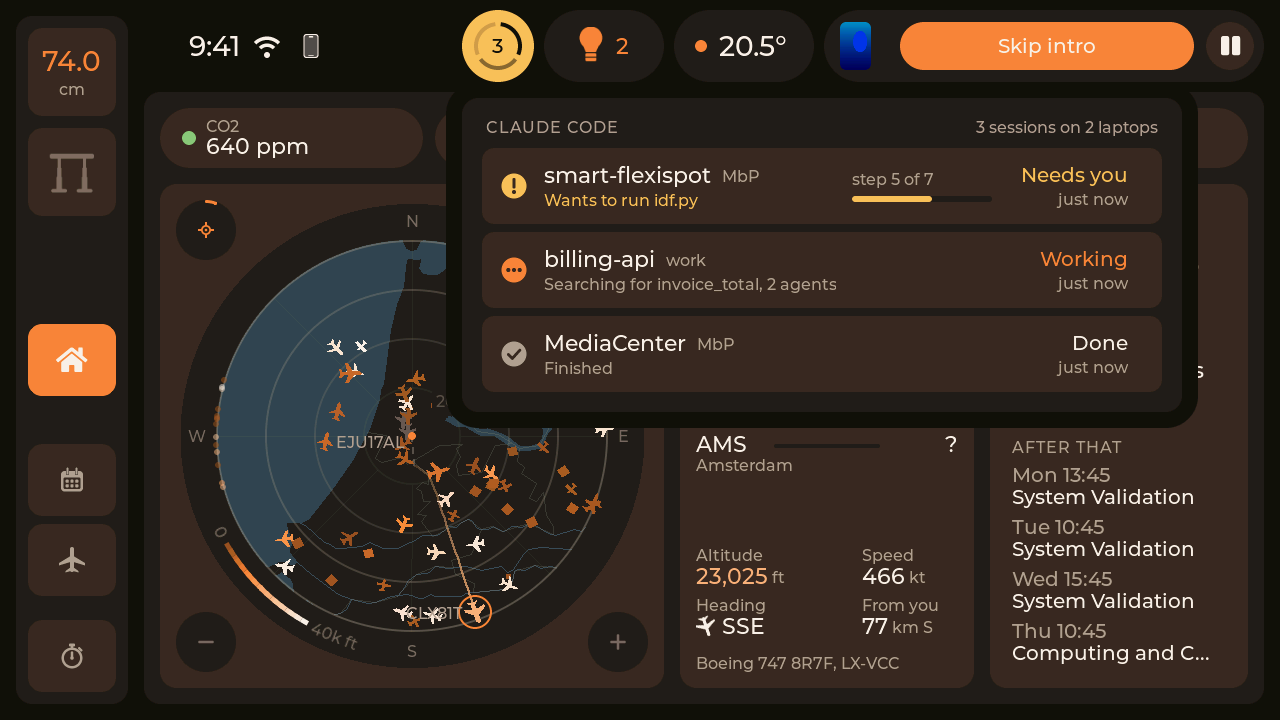
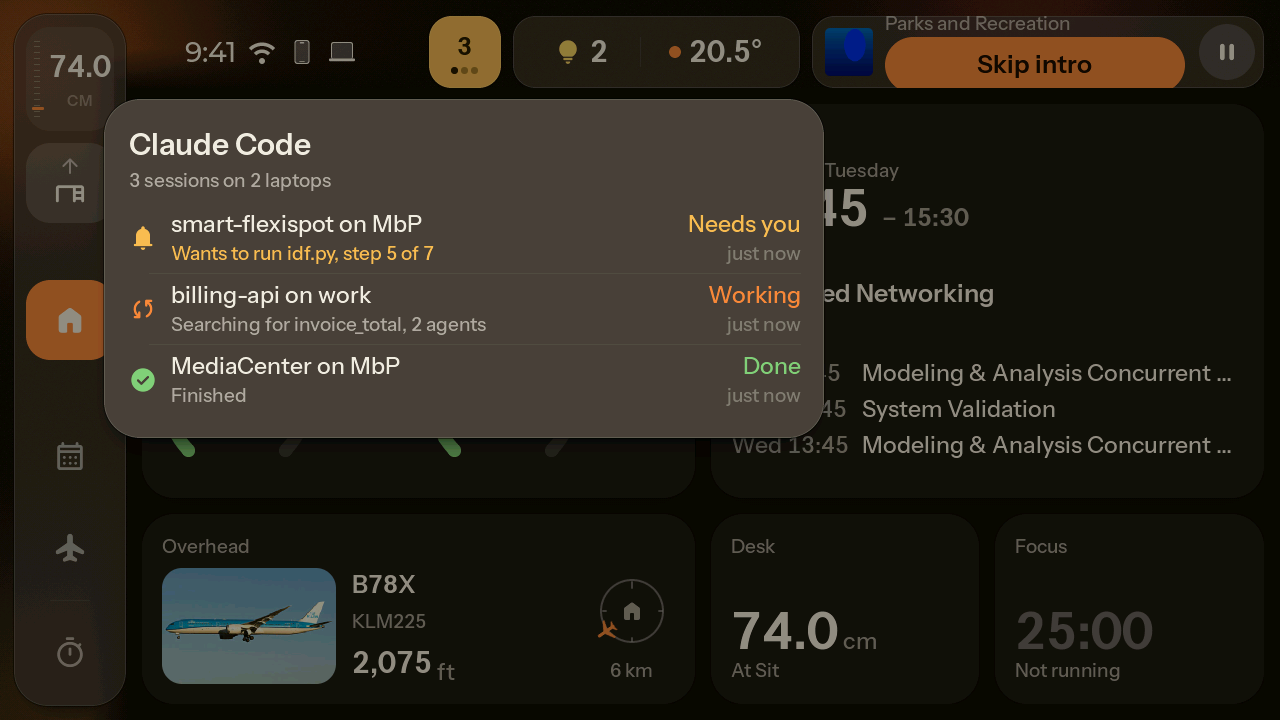
The README's pictures of the new screen, and its words to match
Every screenshot was still of the screen before the redesign, taken the day
the new one first ran. Taken again with sim/shots.sh: Diagnostics is tapped
where Setup's sidebar now has it, rather than on the notification volume,
and both radar pictures come from one run, so Home and the radar page show
the same airliner at 36,000 ft; --pick-above now pins Home's Overhead to it
too, which only the simulator does. The README has the media order as it
is, the speaker, then Jellyfin, then the laptop, playing before paused;
Desk Link on Linux as well as the Mac; and Setup's sidebar.

diff --git a/components/ui/front/kit_front_home.cpp b/components/ui/front/kit_front_home.cpp
@@ -462,12 +462,18 @@ std::int32_t s_track_x = 0, s_track_w = 0, s_track_y = 0;
 std::int32_t s_rose_d = 0, s_rose_r = 0;
 constexpr std::int32_t ROSE_PLANE = 22;  // the plane on the rose, smaller than the route's so the ring has room
 
-// The closest aircraft in the air.
+char s_pinned[radar::kHexLen] = "";  // overhead_pin()'s
+
+// The closest aircraft in the air, or the one pinned while it is.
 const radar::Aircraft *pick_overhead()
 {
     const radar::Aircraft *closest = nullptr;
     for (int i = 0; i < s_sky.count; ++i) {
         const radar::Aircraft &a = s_sky.list[i];
+        if (s_pinned[0] != '\0' && std::strcmp(a.hex, s_pinned) == 0 && !a.on_ground) {
+            closest = &a;
+            break;
+        }
         if (a.on_ground || a.distance_nm * KM_PER_NM > OVERHEAD_KM) {
             continue;
         }
@@ -909,3 +915,11 @@ void build_home(lv_obj_t *page)
 }
 
 }  // namespace ui::kitfront
+
+namespace ui {
+void overhead_pin(const char *hex)
+{
+    std::snprintf(kitfront::s_pinned, sizeof kitfront::s_pinned, "%s", hex != nullptr ? hex : "");
+    kitfront::paint_overhead();
+}
+}  // namespace ui

diff --git a/components/ui/front/radar_page.h b/components/ui/front/radar_page.h
@@ -32,4 +32,9 @@ void radar_open_on(const char *hex);
  *  For the simulator's screenshots. LVGL lock held. */
 bool radar_choose(const char *hex);
 
+/** Home's Overhead shows that aircraft while it is in the sky, rather than the
+ *  closest, so a screenshot of Home and one of the radar have the same. For
+ *  the simulator's screenshots. LVGL lock held. */
+void overhead_pin(const char *hex);
+
 }  // namespace ui

diff --git a/sim/main.cpp b/sim/main.cpp
@@ -453,7 +453,11 @@ bool pick_plane(int above_ft)
             best = &plane;
         }
     }
-    return best != nullptr && ui::radar_choose(best->hex);
+    if (best == nullptr) {
+        return false;
+    }
+    ui::overhead_pin(best->hex);
+    return ui::radar_choose(best->hex);
 }
 }  // namespace
 

diff --git a/README.md b/README.md
@@ -40,7 +40,7 @@ I am not affiliated with, or endorsed by, any of the products or services named 
 - What plays on Jellyfin, with a cinema view that has the lights and the desk within reach.
 - A live radar of the planes overhead: who is flying, where to, their photo and their trail.
 - The next lecture, a countdown, and when to leave to get there on time.
-- Desk Link, a menu bar app that connects my Mac to the panel: what plays there shows on the panel and is steered from it, and Claude Code's sessions come through it.
+- Desk Link, a small app that connects my laptops to the panel, on macOS and on Linux: what plays there shows on the panel and is steered from it, and Claude Code's sessions come through it.
 - A pill in the bar while a Claude Code session on a laptop works, amber when one waits on you.
 - A focus timer, a presence sensor from your phone, and diagnostics for every part, on the panel itself.
 - A simulator that runs the real UI on a Mac, and host tests with coverage in CI.
@@ -79,7 +79,7 @@ When something plays on Jellyfin the bar follows it, and holding it there sends 
 
 ![A video from the laptop in the cinema view](docs/screenshots/laptop.png)
 
-[Desk Link](desklink/macos/), a small menu bar app on my Mac, connects the laptop to the panel. Whatever plays on the Mac shows on the panel with its cover, a video in the cinema view and music on the media card, and the panel's buttons pause, seek, skip and change the volume there. Claude Code's sessions come through it too. Jellyfin comes first, then the speaker, then the laptop. Everything the two send each other is encrypted with a key they share, and each regularly checks that the other is still there.
+[Desk Link](desklink/), a small app in the menu bar on my Mac ([macOS](desklink/macos/)) and in the bar on Linux ([Linux](desklink/linux/), any MPRIS player), connects a laptop to the panel. Whatever plays there shows on the panel with its cover, a video in the cinema view and music on the media card, and the panel's buttons pause, seek, skip and change the volume there. Claude Code's sessions come through it too. The speaker comes first, then Jellyfin, then the laptop, and whatever plays before whatever is paused. Everything the two send each other is encrypted with a key they share, and each regularly checks that the other is still there.
 
 <p align="center"><picture><source media="(prefers-color-scheme: dark)" srcset="desklink/macos/shots/menu-dark.png"><img src="desklink/macos/shots/menu-light.png" alt="Desk Link's menu, under its icon in the menu bar" width="407"></picture></p>
 
@@ -123,7 +123,7 @@ The panel knows my phone over Bluetooth. While it is away, the personal pages ar
 |---|---|
 | ![Setup](docs/screenshots/setup.png) | ![Diagnostics](docs/screenshots/diagnostics.png) |
 
-Brightness, the dark or light look, the accent colour, the focus lengths, which way up the panel hangs, and a card for every part with a log, so when something is off you can see why without a laptop.
+Setup is a sidebar: Screen and sound for the brightness, the dark or light look and the accent colour; Focus for its lengths; Panel for which way up it hangs, whether the personal pages hide while I am away, charging, and the desk by cable or Bluetooth; System for updates and restarting; and Diagnostics, every part with its state and a log, so when something is off you can see why without a laptop.
 
 ## Will it work with my desk?
 

diff --git a/sim/README.md b/sim/README.md
@@ -77,7 +77,7 @@ screen there, as often as given, `--hold X,Y,MS` presses there that long, `--wai
 among the taps, `--swipe X1,Y1,X2,Y2` swipes after the taps, `--shot S` saves a
 screenshot after S seconds and quits, and `--lab` opens the design kit's lab
 in place of the panel. `--pick-above FT` chooses the nearest airliner
-flying at least that high, and `--out2 FILE` saves a second screenshot a few
+flying at least that high, on the radar page and on Home's Overhead alike, and `--out2 FILE` saves a second screenshot a few
 seconds after the first, after the `--tap2 X,Y` taps, so both show the same
 moment. `--draw-page P N` draws page P whole N times and prints how long a
 frame took, to run under a profiler such as `sample`. Together they take a picture of a state without
